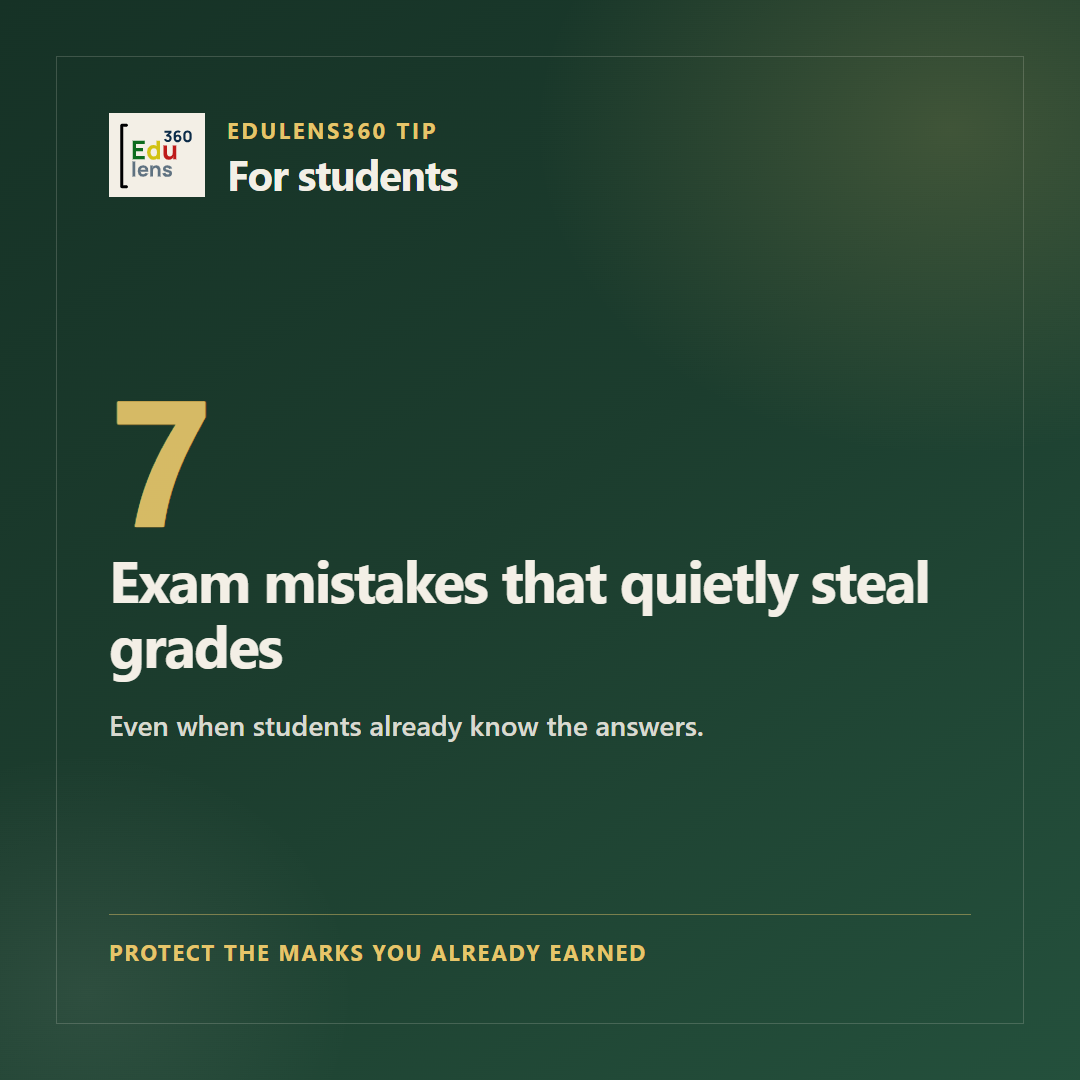
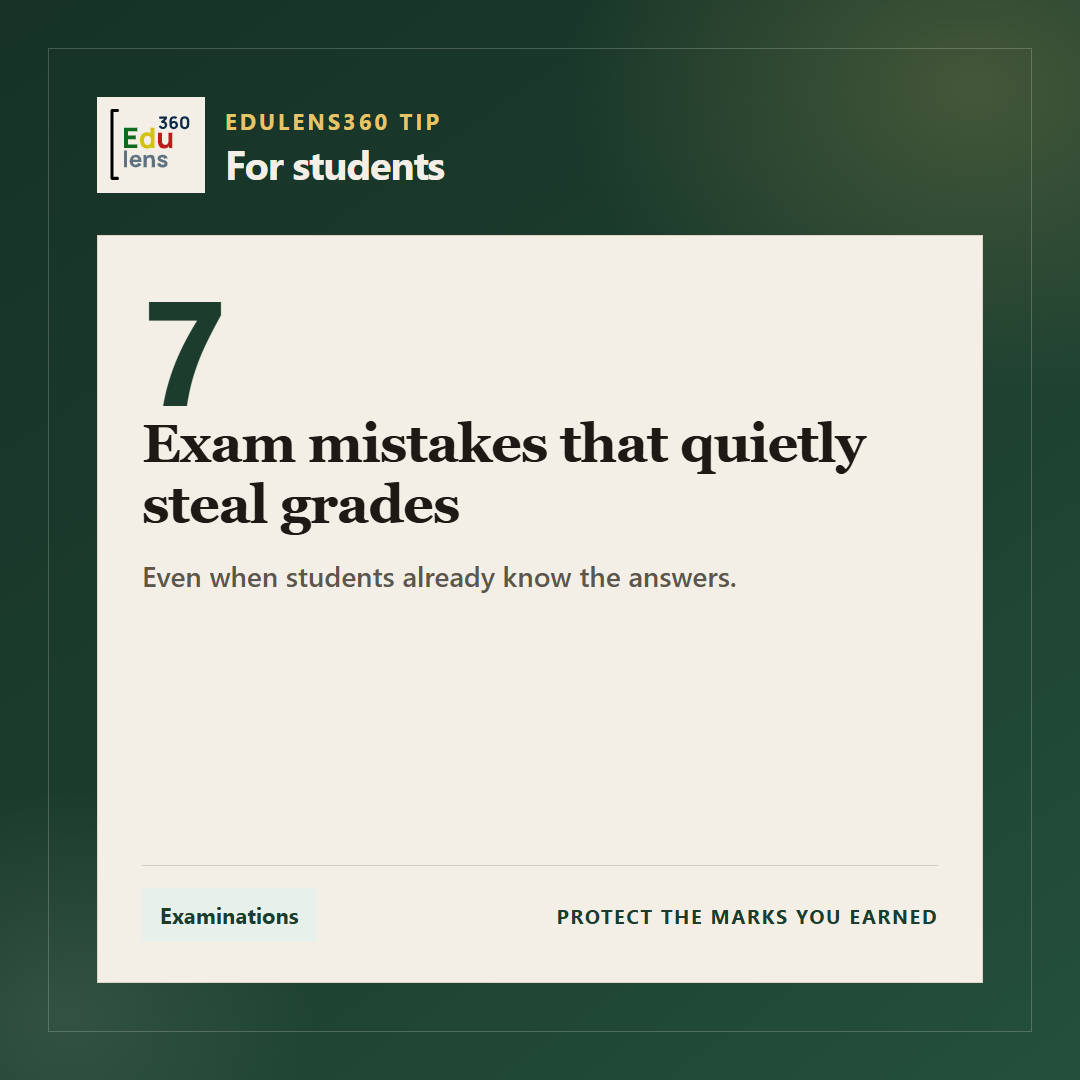
Restyle the exam-mistakes tip image with Edulens brand colors.

diff --git a/docs/story/697/7-exam-mistakes-that-quietly-steal-students-grades-even-when-they-know-the/index.html b/docs/story/697/7-exam-mistakes-that-quietly-steal-students-grades-even-when-they-know-the/index.html
@@ -11,12 +11,12 @@
   <meta property="og:description" content="Common exam-day errors that cost marks even when students know the material, and how to avoid them.">
   <meta property="og:url" content="https://edulens360.com/story/697/7-exam-mistakes-that-quietly-steal-students-grades-even-when-they-know-the/">
   <meta property="og:type" content="article">
-  <meta property="og:image" content="https://edulens360.com/images/tips/exam-mistakes.png">
+  <meta property="og:image" content="https://edulens360.com/images/tips/exam-mistakes.png?v=2">
   <meta name="twitter:card" content="summary">
   <link rel="icon" href="../../../icon-192.png">
   <link rel="stylesheet" href="../../../styles.css?v=14">
   <script type="application/ld+json">
-    {"@context": "https://schema.org", "@type": "Article", "headline": "7 exam mistakes that quietly steal students' grades (even when they know the answers)", "description": "Common exam-day errors that cost marks even when students know the material, and how to avoid them.", "datePublished": "2026-11-05T18:47:10.399212Z", "mainEntityOfPage": "https://edulens360.com/story/697/7-exam-mistakes-that-quietly-steal-students-grades-even-when-they-know-the/", "publisher": {"@type": "Organization", "name": "Edulens360", "url": "https://edulens360.com/"}, "image": "https://edulens360.com/images/tips/exam-mistakes.png"}
+    {"@context": "https://schema.org", "@type": "Article", "headline": "7 exam mistakes that quietly steal students' grades (even when they know the answers)", "description": "Common exam-day errors that cost marks even when students know the material, and how to avoid them.", "datePublished": "2026-11-05T19:53:19.046318Z", "mainEntityOfPage": "https://edulens360.com/story/697/7-exam-mistakes-that-quietly-steal-students-grades-even-when-they-know-the/", "publisher": {"@type": "Organization", "name": "Edulens360", "url": "https://edulens360.com/"}, "image": "https://edulens360.com/images/tips/exam-mistakes.png?v=2"}
   </script>
 </head>
 <body>
@@ -46,7 +46,7 @@
     <article class="story">
       <a class="back" href="../../../" aria-label="Back to latest">Back</a>
       <p class="kicker">Examinations · 5 Nov 2026 · Edulens360 tip</p>
-      <div class="headline"><h1>7 exam mistakes that quietly steal students&#x27; grades (even when they know the answers)</h1><img class="card-photo" alt="" src="https://edulens360.com/images/tips/exam-mistakes.png" referrerpolicy="no-referrer"></div>
+      <div class="headline"><h1>7 exam mistakes that quietly steal students&#x27; grades (even when they know the answers)</h1><img class="card-photo" alt="" src="https://edulens360.com/images/tips/exam-mistakes.png?v=2" referrerpolicy="no-referrer"></div>
       <p class="summary">Common exam-day errors that cost marks even when students know the material, and how to avoid them.</p>
       <div class="actions">
         <button type="button" class="secondary" id="share-story">Share</button>
@@ -72,7 +72,7 @@
 <p class="summary">Edulens360. Practical tips for Ghana&#x27;s education community.</p></section>
     </article>
   </main>
-  <script type="application/json" id="story-data">{"id": 697, "title": "7 exam mistakes that quietly steal students' grades (even when they know the answers)", "summary": "Common exam-day errors that cost marks even when students know the material, and how to avoid them.", "category": "examinations", "published_at": "2026-11-05T18:47:10.399212Z", "source_count": 1, "sources": ["Edulens360"], "image_url": "https://edulens360.com/images/tips/exam-mistakes.png", "path": "story/697/7-exam-mistakes-that-quietly-steal-students-grades-even-when-they-know-the/", "articles": [{"source_name": "Edulens360", "title": "7 exam mistakes that quietly steal students' grades (even when they know the answers)", "url": "https://edulens360.com/story/697/7-exam-mistakes-that-quietly-steal-students-grades-even-when-they-know-the/", "published_at": "2026-11-05T18:47:10.399212Z", "excerpt": "You can study hard and still lose marks for reasons that have nothing to do with how much you know. These are the quiet mistakes that cost students grades every year.\n\n### 1. Misreading the instruction\n\"Answer any three\" does not mean answer all. \"Answer question 1 and any other two\" means question 1 is compulsory. Read the instruction twice before you start writing.\n\n### 2. Leaving compulsory questions for last\nCompulsory questions are often the ones that decide your grade. Do them while your mind is fresh, then move to the optional ones.\n\n### 3. Ignoring command words\nList, state, explain, discuss, and compare are not the same job. If the question says explain and you only write a name or one word, you leave marks on the table.\n\n### 4. Skipping workings\nIn subjects that award method marks, the right final answer with no working can still cost you. Show the steps clearly, even if you are sure of the answer.\n\n### 5. Writing the right answer in the wrong place\nA correct response in the wrong section, wrong booklet, or under the wrong question number can score zero. Before you move on, check the question number matches what you are answering.\n\n### 6. Changing a correct answer at the last minute\nIf you are unsure, leave it. Many students erase a right answer in the final minutes and replace it with a wrong one. Change only when you can prove why the new answer is better.\n\n### 7. Skipping the last 5-minute check\nUse the end of the paper to check:\nyour name and index number\nunanswered questions\nany question you marked to return to\nthat every answer is in the right place\n\n### Quick rule for exam day\nKnow the content, then protect the marks. Read the instruction, follow the command word, show your working, and leave time to check.\n\nEdulens360. Practical tips for Ghana's education community."}]}</script>
+  <script type="application/json" id="story-data">{"id": 697, "title": "7 exam mistakes that quietly steal students' grades (even when they know the answers)", "summary": "Common exam-day errors that cost marks even when students know the material, and how to avoid them.", "category": "examinations", "published_at": "2026-11-05T19:53:19.046318Z", "source_count": 1, "sources": ["Edulens360"], "image_url": "https://edulens360.com/images/tips/exam-mistakes.png?v=2", "path": "story/697/7-exam-mistakes-that-quietly-steal-students-grades-even-when-they-know-the/", "articles": [{"source_name": "Edulens360", "title": "7 exam mistakes that quietly steal students' grades (even when they know the answers)", "url": "https://edulens360.com/story/697/7-exam-mistakes-that-quietly-steal-students-grades-even-when-they-know-the/", "published_at": "2026-11-05T19:53:19.046318Z", "excerpt": "You can study hard and still lose marks for reasons that have nothing to do with how much you know. These are the quiet mistakes that cost students grades every year.\n\n### 1. Misreading the instruction\n\"Answer any three\" does not mean answer all. \"Answer question 1 and any other two\" means question 1 is compulsory. Read the instruction twice before you start writing.\n\n### 2. Leaving compulsory questions for last\nCompulsory questions are often the ones that decide your grade. Do them while your mind is fresh, then move to the optional ones.\n\n### 3. Ignoring command words\nList, state, explain, discuss, and compare are not the same job. If the question says explain and you only write a name or one word, you leave marks on the table.\n\n### 4. Skipping workings\nIn subjects that award method marks, the right final answer with no working can still cost you. Show the steps clearly, even if you are sure of the answer.\n\n### 5. Writing the right answer in the wrong place\nA correct response in the wrong section, wrong booklet, or under the wrong question number can score zero. Before you move on, check the question number matches what you are answering.\n\n### 6. Changing a correct answer at the last minute\nIf you are unsure, leave it. Many students erase a right answer in the final minutes and replace it with a wrong one. Change only when you can prove why the new answer is better.\n\n### 7. Skipping the last 5-minute check\nUse the end of the paper to check:\nyour name and index number\nunanswered questions\nany question you marked to return to\nthat every answer is in the right place\n\n### Quick rule for exam day\nKnow the content, then protect the marks. Read the instruction, follow the command word, show your working, and leave time to check.\n\nEdulens360. Practical tips for Ghana's education community."}]}</script>
   <script>
     const story = JSON.parse(document.getElementById("story-data").textContent);
     const button = document.getElementById("save-story");

diff --git a/android/play-assets/preview/tip-exam-mistakes.html b/android/play-assets/preview/tip-exam-mistakes.html
@@ -1,0 +1,168 @@
+<!DOCTYPE html>
+<html lang="en">
+<head>
+  <meta charset="utf-8">
+  <title>Edulens360 tip image</title>
+  <style>
+    :root {
+      --paper: #f3efe6;
+      --card: #fffdf8;
+      --line: #ddd4c6;
+      --green: #1c3d2e;
+      --green-deep: #163226;
+      --green-mid: #24503c;
+      --green-soft: #e7f0eb;
+      --gold: #e6c56a;
+      --ink: #1d1a16;
+      --muted: #5c564c;
+    }
+    * { box-sizing: border-box; margin: 0; padding: 0; }
+    html, body {
+      width: 1080px;
+      height: 1080px;
+      overflow: hidden;
+    }
+    body {
+      font-family: "Segoe UI", "Avenir Next", sans-serif;
+      color: var(--paper);
+      background: var(--green);
+      position: relative;
+    }
+    .bg {
+      position: absolute;
+      inset: 0;
+      background:
+        radial-gradient(ellipse 65% 50% at 90% 8%, rgba(230, 197, 106, 0.2), transparent 58%),
+        radial-gradient(ellipse 45% 40% at 6% 94%, rgba(243, 239, 230, 0.1), transparent 52%),
+        linear-gradient(145deg, var(--green-deep) 0%, var(--green) 50%, var(--green-mid) 100%);
+    }
+    .frame {
+      position: absolute;
+      inset: 48px;
+      border: 1px solid rgba(243, 239, 230, 0.22);
+      padding: 48px;
+      display: flex;
+      flex-direction: column;
+    }
+    .top {
+      display: flex;
+      align-items: center;
+      gap: 20px;
+    }
+    .logo {
+      width: 108px;
+      height: 96px;
+      background: var(--paper);
+      display: grid;
+      place-items: center;
+      padding: 10px;
+      flex: 0 0 auto;
+    }
+    .logo img {
+      width: 84px;
+      height: auto;
+      display: block;
+    }
+    .eyebrow {
+      font-size: 22px;
+      letter-spacing: 0.14em;
+      text-transform: uppercase;
+      color: var(--gold);
+      font-weight: 700;
+      margin-bottom: 8px;
+    }
+    .brand {
+      font-size: 40px;
+      font-weight: 700;
+      letter-spacing: -0.03em;
+      line-height: 1;
+      color: var(--paper);
+    }
+    .panel {
+      margin-top: 42px;
+      flex: 1;
+      background: var(--paper);
+      color: var(--ink);
+      border: 1px solid var(--line);
+      padding: 48px 44px 40px;
+      display: flex;
+      flex-direction: column;
+      justify-content: space-between;
+    }
+    .number {
+      font-size: 148px;
+      line-height: 0.82;
+      font-weight: 700;
+      letter-spacing: -0.06em;
+      color: var(--green);
+      margin-bottom: 8px;
+    }
+    .title {
+      font-family: Georgia, "Iowan Old Style", "Times New Roman", serif;
+      font-size: 54px;
+      line-height: 1.12;
+      font-weight: 700;
+      letter-spacing: -0.02em;
+      color: var(--ink);
+      max-width: 860px;
+    }
+    .sub {
+      margin-top: 22px;
+      font-size: 28px;
+      line-height: 1.4;
+      color: var(--muted);
+      max-width: 780px;
+      font-weight: 500;
+    }
+    .bottom {
+      display: flex;
+      align-items: center;
+      justify-content: space-between;
+      gap: 24px;
+      margin-top: 36px;
+      padding-top: 22px;
+      border-top: 1px solid rgba(28, 61, 46, 0.18);
+    }
+    .chip {
+      display: inline-flex;
+      align-items: center;
+      gap: 10px;
+      background: var(--green-soft);
+      color: var(--green);
+      font-size: 22px;
+      font-weight: 700;
+      padding: 12px 18px;
+    }
+    .rule {
+      font-size: 20px;
+      letter-spacing: 0.08em;
+      text-transform: uppercase;
+      color: var(--green);
+      font-weight: 700;
+    }
+  </style>
+</head>
+<body>
+  <div class="bg"></div>
+  <div class="frame">
+    <div class="top">
+      <div class="logo"><img src="logo.svg" alt="Edulens360"></div>
+      <div>
+        <div class="eyebrow">Edulens360 tip</div>
+        <div class="brand">For students</div>
+      </div>
+    </div>
+    <div class="panel">
+      <div>
+        <div class="number">7</div>
+        <div class="title">Exam mistakes that quietly steal grades</div>
+        <div class="sub">Even when students already know the answers.</div>
+      </div>
+      <div class="bottom">
+        <div class="chip">Examinations</div>
+        <div class="rule">Protect the marks you earned</div>
+      </div>
+    </div>
+  </div>
+</body>
+</html>
